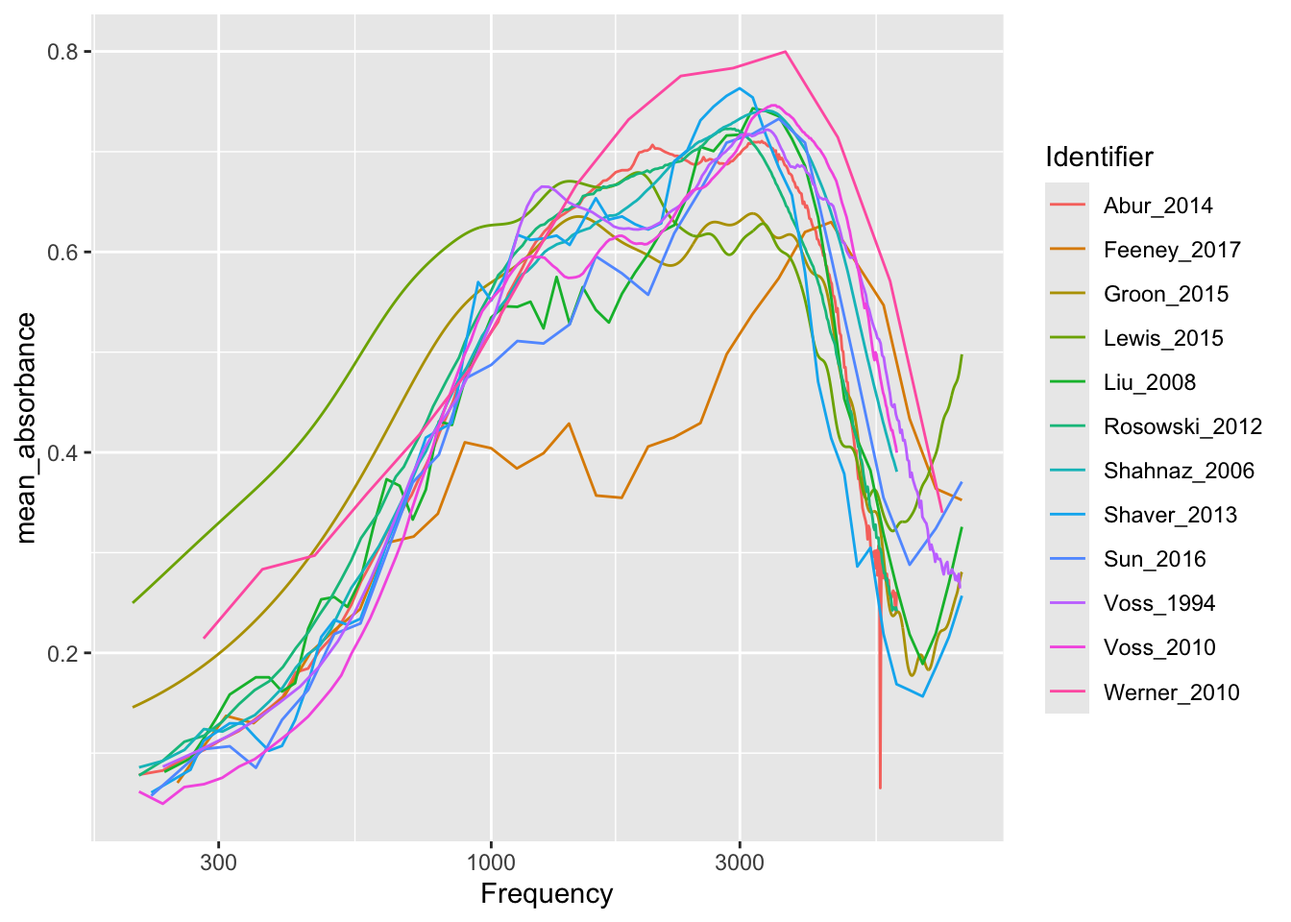
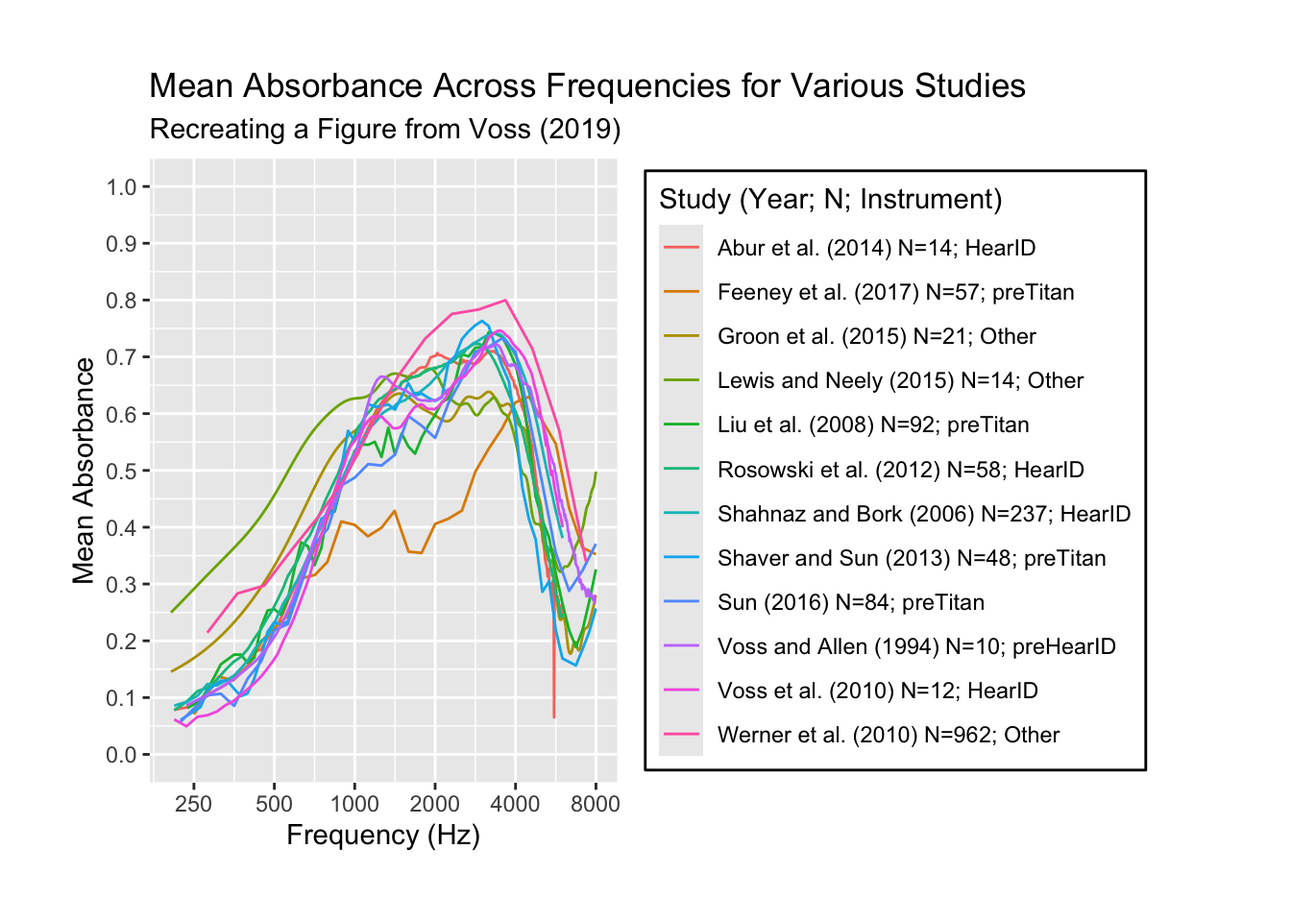
So far done

diff --git a/docs/Project4.html b/docs/Project4.html
@@ -9,7 +9,7 @@
 <meta name="author" content="Taha Disbudak">
 <meta name="dcterms.date" content="2024-11-26">
 
-<title>taha6767.github.io - Project 4</title>
+<title>taha6767.github.io - Recreating an academic graph</title>
 <style>
 code{white-space: pre-wrap;}
 span.smallcaps{font-variant: small-caps;}
@@ -175,20 +175,14 @@ pre > code.sourceCode > span > a:first-child::before { text-decoration: underlin
 <!-- sidebar -->
 <!-- margin-sidebar -->
     <div id="quarto-margin-sidebar" class="sidebar margin-sidebar">
-        <nav id="TOC" role="doc-toc" class="toc-active">
-    <h2 id="toc-title">On this page</h2>
-   
-  <ul>
-  <li><a href="#plan" id="toc-plan" class="nav-link active" data-scroll-target="#plan">Plan</a></li>
-  </ul>
-</nav>
+        
     </div>
 <!-- main -->
 <main class="content" id="quarto-document-content">
 
 <header id="title-block-header" class="quarto-title-block default">
 <div class="quarto-title">
-<h1 class="title">Project 4</h1>
+<h1 class="title">Recreating an academic graph</h1>
 </div>
 
 
@@ -217,61 +211,65 @@ pre > code.sourceCode > span > a:first-child::before { text-decoration: underlin
 </header>
 
 
-<div class="cell">
-<div class="sourceCode cell-code" id="cb1"><pre class="sourceCode r code-with-copy"><code class="sourceCode r"><span id="cb1-1"><a href="#cb1-1" aria-hidden="true" tabindex="-1"></a><span class="fu">library</span>(mdsr)</span>
-<span id="cb1-2"><a href="#cb1-2" aria-hidden="true" tabindex="-1"></a><span class="fu">library</span>(dbplyr)</span>
-<span id="cb1-3"><a href="#cb1-3" aria-hidden="true" tabindex="-1"></a><span class="fu">library</span>(DBI)</span>
-<span id="cb1-4"><a href="#cb1-4" aria-hidden="true" tabindex="-1"></a><span class="fu">library</span>(RMariaDB)</span>
-<span id="cb1-5"><a href="#cb1-5" aria-hidden="true" tabindex="-1"></a><span class="fu">library</span>(tidyverse)</span></code><button title="Copy to Clipboard" class="code-copy-button"><i class="bi"></i></button></pre></div>
-</div>
 <p>Source of Data: Wideband Acoustic Immittance (WAI) Database hosted by Smith College (doi.org/10.35482/egr.001.2022)</p>
-<section id="plan" class="level3">
-<h3 class="anchored" data-anchor-id="plan">Plan</h3>
-<p>In this project, I analyze and visualize data from the WAI Database.</p>
-<ol type="1">
-<li><p>For <strong>Part 1</strong>, I replicate <strong>Figure 1 from Voss (2020)</strong> by querying the database to compute mean absorbance values across frequencies for 12 studies. The data is grouped and processed in SQL, and only visualization is performed in R using <code>ggplot</code>.</p></li>
-<li><p>For <strong>Part 2</strong>, I investigate the absorbance behavior across different <strong>age groups</strong> (Child, Adult) within the Aithal_2019a study. I compute mean absorbance values by frequency and age group using SQL and plot these trends in R.</p></li>
-</ol>
-<p>Recreating figure 1:</p>
+<p>Plan In this project, I analyze and visualize data from the WAI Database to investigate how mean absorbance varies across frequencies for multiple studies and how absorbance differs by age groups within a single study.</p>
+<p>Part 1: I replicate a version of Figure 1 from Voss (2019), which examines mean absorbance data across frequencies from 12 different studies.</p>
+<p>Using SQL, I query the WAI database to compute mean absorbance values by frequency for each study. In R, I visualize these data using ggplot2, with a logarithmic frequency axis and each study plotted as a separate line. Part 2: I focus on the Aithal_2019a study to compare mean absorbance values between children and adults.</p>
+<p>I query the database to compute mean absorbance values by frequency for each age category. I visualize the results to highlight differences in auditory responses between children and adults. References Voss (2019): Voss, S.E. (2019). Resource Review. Ear and Hearing, 40(6), 1481. DOI: 10.1097/AUD.0000000000000790</p>
+<p>Part 1: Recreating a Figure Similar to Voss (2019) Figure 1</p>
 <div class="cell">
-<div class="sourceCode cell-code" id="cb2"><pre class="sourceCode r code-with-copy"><code class="sourceCode r"><span id="cb2-1"><a href="#cb2-1" aria-hidden="true" tabindex="-1"></a>con_wai <span class="ot">&lt;-</span> <span class="fu">dbConnect</span>(</span>
-<span id="cb2-2"><a href="#cb2-2" aria-hidden="true" tabindex="-1"></a>  <span class="fu">MariaDB</span>(), <span class="at">host =</span> <span class="st">"scidb.smith.edu"</span>,</span>
-<span id="cb2-3"><a href="#cb2-3" aria-hidden="true" tabindex="-1"></a>  <span class="at">user =</span> <span class="st">"waiuser"</span>, <span class="at">password =</span> <span class="st">"smith_waiDB"</span>, </span>
-<span id="cb2-4"><a href="#cb2-4" aria-hidden="true" tabindex="-1"></a>  <span class="at">dbname =</span> <span class="st">"wai"</span></span>
-<span id="cb2-5"><a href="#cb2-5" aria-hidden="true" tabindex="-1"></a>)</span>
-<span id="cb2-6"><a href="#cb2-6" aria-hidden="true" tabindex="-1"></a>Measurements <span class="ot">&lt;-</span> <span class="fu">tbl</span>(con_wai, <span class="st">"Measurements"</span>)</span>
-<span id="cb2-7"><a href="#cb2-7" aria-hidden="true" tabindex="-1"></a>PI_Info <span class="ot">&lt;-</span> <span class="fu">tbl</span>(con_wai, <span class="st">"PI_Info"</span>)</span>
-<span id="cb2-8"><a href="#cb2-8" aria-hidden="true" tabindex="-1"></a>Subjects <span class="ot">&lt;-</span> <span class="fu">tbl</span>(con_wai, <span class="st">"Subjects"</span>)</span>
-<span id="cb2-9"><a href="#cb2-9" aria-hidden="true" tabindex="-1"></a></span>
-<span id="cb2-10"><a href="#cb2-10" aria-hidden="true" tabindex="-1"></a><span class="co"># collect(Measurements)</span></span></code><button title="Copy to Clipboard" class="code-copy-button"><i class="bi"></i></button></pre></div>
+<div class="sourceCode cell-code" id="cb1"><pre class="sourceCode r code-with-copy"><code class="sourceCode r"><span id="cb1-1"><a href="#cb1-1" aria-hidden="true" tabindex="-1"></a>con_wai <span class="ot">&lt;-</span> <span class="fu">dbConnect</span>(</span>
+<span id="cb1-2"><a href="#cb1-2" aria-hidden="true" tabindex="-1"></a>  <span class="fu">MariaDB</span>(), <span class="at">host =</span> <span class="st">"scidb.smith.edu"</span>,</span>
+<span id="cb1-3"><a href="#cb1-3" aria-hidden="true" tabindex="-1"></a>  <span class="at">user =</span> <span class="st">"waiuser"</span>, <span class="at">password =</span> <span class="st">"smith_waiDB"</span>, </span>
+<span id="cb1-4"><a href="#cb1-4" aria-hidden="true" tabindex="-1"></a>  <span class="at">dbname =</span> <span class="st">"wai"</span></span>
+<span id="cb1-5"><a href="#cb1-5" aria-hidden="true" tabindex="-1"></a>)</span>
+<span id="cb1-6"><a href="#cb1-6" aria-hidden="true" tabindex="-1"></a>Measurements <span class="ot">&lt;-</span> <span class="fu">tbl</span>(con_wai, <span class="st">"Measurements"</span>)</span>
+<span id="cb1-7"><a href="#cb1-7" aria-hidden="true" tabindex="-1"></a>PI_Info <span class="ot">&lt;-</span> <span class="fu">tbl</span>(con_wai, <span class="st">"PI_Info"</span>)</span>
+<span id="cb1-8"><a href="#cb1-8" aria-hidden="true" tabindex="-1"></a>Subjects <span class="ot">&lt;-</span> <span class="fu">tbl</span>(con_wai, <span class="st">"Subjects"</span>)</span></code><button title="Copy to Clipboard" class="code-copy-button"><i class="bi"></i></button></pre></div>
 </div>
+<p>Connecting to the online database</p>
 <div class="cell" data-output.var="graph">
-<div class="sourceCode cell-code" id="cb3"><pre class="sourceCode sql code-with-copy"><code class="sourceCode sql"><span id="cb3-1"><a href="#cb3-1" aria-hidden="true" tabindex="-1"></a><span class="kw">SELECT</span> </span>
-<span id="cb3-2"><a href="#cb3-2" aria-hidden="true" tabindex="-1"></a>    m.<span class="kw">Identifier</span>, </span>
-<span id="cb3-3"><a href="#cb3-3" aria-hidden="true" tabindex="-1"></a>    m.Frequency, </span>
-<span id="cb3-4"><a href="#cb3-4" aria-hidden="true" tabindex="-1"></a>    <span class="fu">AVG</span>(m.Absorbance) <span class="kw">AS</span> mean_absorbance,</span>
-<span id="cb3-5"><a href="#cb3-5" aria-hidden="true" tabindex="-1"></a>    p.<span class="dt">Year</span>,</span>
-<span id="cb3-6"><a href="#cb3-6" aria-hidden="true" tabindex="-1"></a>    p.AuthorsShortList,</span>
-<span id="cb3-7"><a href="#cb3-7" aria-hidden="true" tabindex="-1"></a>    m.Instrument,</span>
-<span id="cb3-8"><a href="#cb3-8" aria-hidden="true" tabindex="-1"></a>    <span class="fu">CONCAT</span>(p.AuthorsShortList, <span class="st">' ('</span>, p.<span class="dt">Year</span>, <span class="st">') N='</span>, </span>
-<span id="cb3-9"><a href="#cb3-9" aria-hidden="true" tabindex="-1"></a>           <span class="fu">COUNT</span>(<span class="kw">DISTINCT</span> <span class="fu">CONCAT</span>(m.SubjectNumber, m.Ear)), <span class="st">'; '</span>, m.Instrument) <span class="kw">AS</span> legend</span>
-<span id="cb3-10"><a href="#cb3-10" aria-hidden="true" tabindex="-1"></a><span class="kw">FROM</span> Measurements m</span>
-<span id="cb3-11"><a href="#cb3-11" aria-hidden="true" tabindex="-1"></a><span class="kw">INNER</span> <span class="kw">JOIN</span> PI_Info p <span class="kw">ON</span> m.<span class="kw">Identifier</span> <span class="op">=</span> p.<span class="kw">Identifier</span></span>
-<span id="cb3-12"><a href="#cb3-12" aria-hidden="true" tabindex="-1"></a><span class="kw">WHERE</span> m.<span class="kw">Identifier</span> <span class="kw">IN</span> (</span>
-<span id="cb3-13"><a href="#cb3-13" aria-hidden="true" tabindex="-1"></a>    <span class="st">'Abur_2014'</span>, <span class="st">'Feeney_2017'</span>, <span class="st">'Groon_2015'</span>, <span class="st">'Lewis_2015'</span>, <span class="st">'Liu_2008'</span>,</span>
-<span id="cb3-14"><a href="#cb3-14" aria-hidden="true" tabindex="-1"></a>    <span class="st">'Rosowski_2012'</span>, <span class="st">'Shahnaz_2006'</span>, <span class="st">'Shaver_2013'</span>, <span class="st">'Sun_2016'</span>, </span>
-<span id="cb3-15"><a href="#cb3-15" aria-hidden="true" tabindex="-1"></a>    <span class="st">'Voss_1994'</span>, <span class="st">'Voss_2010'</span>, <span class="st">'Werner_2010'</span></span>
-<span id="cb3-16"><a href="#cb3-16" aria-hidden="true" tabindex="-1"></a>) </span>
-<span id="cb3-17"><a href="#cb3-17" aria-hidden="true" tabindex="-1"></a><span class="kw">AND</span> m.Frequency <span class="kw">BETWEEN</span> <span class="dv">200</span> <span class="kw">AND</span> <span class="dv">8000</span></span>
-<span id="cb3-18"><a href="#cb3-18" aria-hidden="true" tabindex="-1"></a><span class="kw">GROUP</span> <span class="kw">BY</span> m.<span class="kw">Identifier</span>, m.Frequency, m.Instrument, p.<span class="dt">Year</span>, p.AuthorsShortList</span></code><button title="Copy to Clipboard" class="code-copy-button"><i class="bi"></i></button></pre></div>
+<div class="sourceCode cell-code" id="cb2"><pre class="sourceCode sql code-with-copy"><code class="sourceCode sql"><span id="cb2-1"><a href="#cb2-1" aria-hidden="true" tabindex="-1"></a><span class="kw">SELECT</span> </span>
+<span id="cb2-2"><a href="#cb2-2" aria-hidden="true" tabindex="-1"></a>    m.<span class="kw">Identifier</span>, </span>
+<span id="cb2-3"><a href="#cb2-3" aria-hidden="true" tabindex="-1"></a>    m.Frequency, </span>
+<span id="cb2-4"><a href="#cb2-4" aria-hidden="true" tabindex="-1"></a>    <span class="fu">AVG</span>(m.Absorbance) <span class="kw">AS</span> mean_absorbance,</span>
+<span id="cb2-5"><a href="#cb2-5" aria-hidden="true" tabindex="-1"></a>    p.<span class="dt">Year</span>,</span>
+<span id="cb2-6"><a href="#cb2-6" aria-hidden="true" tabindex="-1"></a>    p.AuthorsShortList,</span>
+<span id="cb2-7"><a href="#cb2-7" aria-hidden="true" tabindex="-1"></a>    m.Instrument,</span>
+<span id="cb2-8"><a href="#cb2-8" aria-hidden="true" tabindex="-1"></a>    <span class="fu">CONCAT</span>(p.AuthorsShortList, <span class="st">' ('</span>, p.<span class="dt">Year</span>, <span class="st">') N='</span>, </span>
+<span id="cb2-9"><a href="#cb2-9" aria-hidden="true" tabindex="-1"></a>           <span class="fu">COUNT</span>(<span class="kw">DISTINCT</span> <span class="fu">CONCAT</span>(m.SubjectNumber, m.Ear)), <span class="st">'; '</span>, m.Instrument) <span class="kw">AS</span> legend</span>
+<span id="cb2-10"><a href="#cb2-10" aria-hidden="true" tabindex="-1"></a><span class="kw">FROM</span> Measurements m</span>
+<span id="cb2-11"><a href="#cb2-11" aria-hidden="true" tabindex="-1"></a><span class="kw">INNER</span> <span class="kw">JOIN</span> PI_Info p <span class="kw">ON</span> m.<span class="kw">Identifier</span> <span class="op">=</span> p.<span class="kw">Identifier</span></span>
+<span id="cb2-12"><a href="#cb2-12" aria-hidden="true" tabindex="-1"></a><span class="kw">WHERE</span> m.<span class="kw">Identifier</span> <span class="kw">IN</span> (</span>
+<span id="cb2-13"><a href="#cb2-13" aria-hidden="true" tabindex="-1"></a>    <span class="st">'Abur_2014'</span>, <span class="st">'Feeney_2017'</span>, <span class="st">'Groon_2015'</span>, <span class="st">'Lewis_2015'</span>, <span class="st">'Liu_2008'</span>,</span>
+<span id="cb2-14"><a href="#cb2-14" aria-hidden="true" tabindex="-1"></a>    <span class="st">'Rosowski_2012'</span>, <span class="st">'Shahnaz_2006'</span>, <span class="st">'Shaver_2013'</span>, <span class="st">'Sun_2016'</span>, </span>
+<span id="cb2-15"><a href="#cb2-15" aria-hidden="true" tabindex="-1"></a>    <span class="st">'Voss_1994'</span>, <span class="st">'Voss_2010'</span>, <span class="st">'Werner_2010'</span></span>
+<span id="cb2-16"><a href="#cb2-16" aria-hidden="true" tabindex="-1"></a>) </span>
+<span id="cb2-17"><a href="#cb2-17" aria-hidden="true" tabindex="-1"></a><span class="kw">AND</span> m.Frequency <span class="kw">BETWEEN</span> <span class="dv">200</span> <span class="kw">AND</span> <span class="dv">8000</span></span>
+<span id="cb2-18"><a href="#cb2-18" aria-hidden="true" tabindex="-1"></a><span class="kw">GROUP</span> <span class="kw">BY</span> m.<span class="kw">Identifier</span>, m.Frequency, m.Instrument, p.<span class="dt">Year</span>, p.AuthorsShortList</span></code><button title="Copy to Clipboard" class="code-copy-button"><i class="bi"></i></button></pre></div>
 </div>
+<p>This SQL query retrieves averaged absorbance measurements from specific scientific studies, joining measurement data with publication information and grouping the results by study identifier, frequency, and instrument type. The query creates a legend string combining author names, publication year, and sample size (N) for each study while filtering frequencies between 200 and 8000.</p>
 <div class="cell">
-<div class="sourceCode cell-code" id="cb4"><pre class="sourceCode r code-with-copy"><code class="sourceCode r"><span id="cb4-1"><a href="#cb4-1" aria-hidden="true" tabindex="-1"></a>graph <span class="sc">|&gt;</span></span>
-<span id="cb4-2"><a href="#cb4-2" aria-hidden="true" tabindex="-1"></a><span class="fu">ggplot</span>(<span class="fu">aes</span> (<span class="at">x =</span> Frequency, <span class="at">y =</span> mean_absorbance, </span>
-<span id="cb4-3"><a href="#cb4-3" aria-hidden="true" tabindex="-1"></a>  <span class="at">color =</span> Identifier,</span>
-<span id="cb4-4"><a href="#cb4-4" aria-hidden="true" tabindex="-1"></a>  <span class="at">group =</span> Identifier)) <span class="sc">+</span></span>
-<span id="cb4-5"><a href="#cb4-5" aria-hidden="true" tabindex="-1"></a>  <span class="fu">geom_line</span>()<span class="sc">+</span></span>
-<span id="cb4-6"><a href="#cb4-6" aria-hidden="true" tabindex="-1"></a>  <span class="fu">scale_x_log10</span>()</span></code><button title="Copy to Clipboard" class="code-copy-button"><i class="bi"></i></button></pre></div>
+<div class="sourceCode cell-code" id="cb3"><pre class="sourceCode r code-with-copy"><code class="sourceCode r"><span id="cb3-1"><a href="#cb3-1" aria-hidden="true" tabindex="-1"></a>graph <span class="sc">|&gt;</span></span>
+<span id="cb3-2"><a href="#cb3-2" aria-hidden="true" tabindex="-1"></a>  <span class="fu">ggplot</span>(<span class="fu">aes</span>(<span class="at">x =</span> Frequency, <span class="at">y =</span> mean_absorbance,</span>
+<span id="cb3-3"><a href="#cb3-3" aria-hidden="true" tabindex="-1"></a>           <span class="at">color =</span> legend, <span class="at">group =</span> legend)) <span class="sc">+</span></span>
+<span id="cb3-4"><a href="#cb3-4" aria-hidden="true" tabindex="-1"></a><span class="fu">geom_line</span>() <span class="sc">+</span></span>
+<span id="cb3-5"><a href="#cb3-5" aria-hidden="true" tabindex="-1"></a><span class="fu">scale_x_log10</span>(<span class="at">breaks =</span> <span class="fu">c</span>(<span class="dv">250</span>, <span class="dv">500</span>, <span class="dv">1000</span>, <span class="dv">2000</span>, <span class="dv">4000</span>, <span class="dv">8000</span>),</span>
+<span id="cb3-6"><a href="#cb3-6" aria-hidden="true" tabindex="-1"></a>              <span class="at">labels =</span> <span class="fu">c</span>(<span class="st">"250"</span>,<span class="st">"500"</span>,<span class="st">"1000"</span>,<span class="st">"2000"</span>,<span class="st">"4000"</span>,<span class="st">"8000"</span>)) <span class="sc">+</span></span>
+<span id="cb3-7"><a href="#cb3-7" aria-hidden="true" tabindex="-1"></a><span class="fu">scale_y_continuous</span>(<span class="at">limits =</span> <span class="fu">c</span>(<span class="dv">0</span>, <span class="dv">1</span>),</span>
+<span id="cb3-8"><a href="#cb3-8" aria-hidden="true" tabindex="-1"></a>                  <span class="at">breaks =</span> <span class="fu">seq</span>(<span class="dv">0</span>, <span class="dv">1</span>, <span class="at">by =</span> <span class="fl">0.1</span>)) <span class="sc">+</span></span>
+<span id="cb3-9"><a href="#cb3-9" aria-hidden="true" tabindex="-1"></a><span class="fu">labs</span>(</span>
+<span id="cb3-10"><a href="#cb3-10" aria-hidden="true" tabindex="-1"></a>    <span class="at">title =</span> <span class="st">"Mean Absorbance Across Frequencies for Various Studies"</span>,</span>
+<span id="cb3-11"><a href="#cb3-11" aria-hidden="true" tabindex="-1"></a>    <span class="at">subtitle =</span> <span class="st">"Recreating a Figure from Voss (2019)"</span>,</span>
+<span id="cb3-12"><a href="#cb3-12" aria-hidden="true" tabindex="-1"></a>    <span class="at">x =</span> <span class="st">"Frequency (Hz)"</span>,</span>
+<span id="cb3-13"><a href="#cb3-13" aria-hidden="true" tabindex="-1"></a>    <span class="at">y =</span> <span class="st">"Mean Absorbance"</span>,</span>
+<span id="cb3-14"><a href="#cb3-14" aria-hidden="true" tabindex="-1"></a>    <span class="at">color =</span> <span class="st">"Study (Year; N; Instrument)"</span></span>
+<span id="cb3-15"><a href="#cb3-15" aria-hidden="true" tabindex="-1"></a>) <span class="sc">+</span></span>
+<span id="cb3-16"><a href="#cb3-16" aria-hidden="true" tabindex="-1"></a><span class="fu">theme</span>(</span>
+<span id="cb3-17"><a href="#cb3-17" aria-hidden="true" tabindex="-1"></a>    <span class="at">legend.position =</span> <span class="st">"right"</span>,</span>
+<span id="cb3-18"><a href="#cb3-18" aria-hidden="true" tabindex="-1"></a>    <span class="at">legend.background =</span> <span class="fu">element_rect</span>(<span class="at">fill =</span> <span class="st">"white"</span>, <span class="at">color =</span> <span class="st">"black"</span>),</span>
+<span id="cb3-19"><a href="#cb3-19" aria-hidden="true" tabindex="-1"></a>    <span class="at">plot.margin =</span> <span class="fu">unit</span>(<span class="fu">c</span>(<span class="dv">1</span>, <span class="dv">2</span>, <span class="dv">1</span>, <span class="dv">1</span>), <span class="st">"cm"</span>)</span>
+<span id="cb3-20"><a href="#cb3-20" aria-hidden="true" tabindex="-1"></a>)</span></code><button title="Copy to Clipboard" class="code-copy-button"><i class="bi"></i></button></pre></div>
 <div class="cell-output-display">
 <div>
 <figure class="figure">
@@ -279,57 +277,39 @@ pre > code.sourceCode > span > a:first-child::before { text-decoration: underlin
 </figure>
 </div>
 </div>
-<div class="sourceCode cell-code" id="cb5"><pre class="sourceCode r code-with-copy"><code class="sourceCode r"><span id="cb5-1"><a href="#cb5-1" aria-hidden="true" tabindex="-1"></a>  <span class="fu">labs</span>(</span>
-<span id="cb5-2"><a href="#cb5-2" aria-hidden="true" tabindex="-1"></a>    <span class="at">title =</span> <span class="st">"Mean Absorbance Across Frequencies for Various Studies"</span>,</span>
-<span id="cb5-3"><a href="#cb5-3" aria-hidden="true" tabindex="-1"></a>    <span class="at">x =</span> <span class="st">"Frequency (Log Scale)"</span>,</span>
-<span id="cb5-4"><a href="#cb5-4" aria-hidden="true" tabindex="-1"></a>    <span class="at">y =</span> <span class="st">"Mean Absorbance"</span></span>
-<span id="cb5-5"><a href="#cb5-5" aria-hidden="true" tabindex="-1"></a>  )</span></code><button title="Copy to Clipboard" class="code-copy-button"><i class="bi"></i></button></pre></div>
-<div class="cell-output cell-output-stdout">
-<pre><code>$x
-[1] "Frequency (Log Scale)"
-
-$y
-[1] "Mean Absorbance"
-
-$title
-[1] "Mean Absorbance Across Frequencies for Various Studies"
-
-attr(,"class")
-[1] "labels"</code></pre>
-</div>
 </div>
 <p>This visualization shows data from 12 different studies examining mean absorbance patterns across sound frequencies. Each study is represented by a uniquely colored line, with frequencies shown on a logarithmic scale from about 300 to 8000 Hz. Most studies follow a similar pattern: starting with low absorbance values (around 0.1-0.2) at lower frequencies, gradually increasing to reach maximum absorbance (between 0.6-0.8) in the mid-frequency range of 1000-3000 Hz, and then declining at higher frequencies. Notable variations exist between studies, particularly in the Feeney_2017 data which shows a distinctly different pattern with lower absorbance values and a delayed peak compared to other studies. The Lewis_2015 study shows the earliest rise in absorbance at low frequencies, while Werner_2010 achieves the highest peak absorbance values around 0.8.</p>
 <p>Part 2:</p>
 <div class="cell" data-output.var="graphforQ2_comparison">
-<div class="sourceCode cell-code" id="cb7"><pre class="sourceCode sql code-with-copy"><code class="sourceCode sql"><span id="cb7-1"><a href="#cb7-1" aria-hidden="true" tabindex="-1"></a><span class="kw">SELECT</span> </span>
-<span id="cb7-2"><a href="#cb7-2" aria-hidden="true" tabindex="-1"></a>    m.AgeCategory,</span>
-<span id="cb7-3"><a href="#cb7-3" aria-hidden="true" tabindex="-1"></a>    m.Frequency, </span>
-<span id="cb7-4"><a href="#cb7-4" aria-hidden="true" tabindex="-1"></a>    <span class="fu">AVG</span>(m.Absorbance) <span class="kw">AS</span> mean_absorbance,</span>
-<span id="cb7-5"><a href="#cb7-5" aria-hidden="true" tabindex="-1"></a>    m.<span class="kw">Identifier</span></span>
-<span id="cb7-6"><a href="#cb7-6" aria-hidden="true" tabindex="-1"></a><span class="kw">FROM</span> Measurements m</span>
-<span id="cb7-7"><a href="#cb7-7" aria-hidden="true" tabindex="-1"></a><span class="kw">INNER</span> <span class="kw">JOIN</span> Subjects s <span class="kw">ON</span> m.<span class="kw">Identifier</span> <span class="op">=</span> s.<span class="kw">Identifier</span> </span>
-<span id="cb7-8"><a href="#cb7-8" aria-hidden="true" tabindex="-1"></a>    <span class="kw">AND</span> m.SubjectNumber <span class="op">=</span> s.SubjectNumber</span>
-<span id="cb7-9"><a href="#cb7-9" aria-hidden="true" tabindex="-1"></a><span class="kw">INNER</span> <span class="kw">JOIN</span> PI_Info p <span class="kw">ON</span> m.<span class="kw">Identifier</span> <span class="op">=</span> p.<span class="kw">Identifier</span></span>
-<span id="cb7-10"><a href="#cb7-10" aria-hidden="true" tabindex="-1"></a><span class="kw">WHERE</span> m.<span class="kw">Identifier</span> <span class="op">=</span> <span class="st">'Aithal_2019a'</span> </span>
-<span id="cb7-11"><a href="#cb7-11" aria-hidden="true" tabindex="-1"></a>    <span class="kw">AND</span> m.Frequency <span class="kw">BETWEEN</span> <span class="dv">200</span> <span class="kw">AND</span> <span class="dv">8000</span></span>
-<span id="cb7-12"><a href="#cb7-12" aria-hidden="true" tabindex="-1"></a>    <span class="kw">AND</span> m.AgeCategory <span class="kw">IS</span> <span class="kw">NOT</span> <span class="kw">NULL</span></span>
-<span id="cb7-13"><a href="#cb7-13" aria-hidden="true" tabindex="-1"></a><span class="kw">GROUP</span> <span class="kw">BY</span> m.<span class="kw">Identifier</span>, m.Frequency, m.AgeCategory;</span></code><button title="Copy to Clipboard" class="code-copy-button"><i class="bi"></i></button></pre></div>
+<div class="sourceCode cell-code" id="cb4"><pre class="sourceCode sql code-with-copy"><code class="sourceCode sql"><span id="cb4-1"><a href="#cb4-1" aria-hidden="true" tabindex="-1"></a><span class="kw">SELECT</span> </span>
+<span id="cb4-2"><a href="#cb4-2" aria-hidden="true" tabindex="-1"></a>    m.AgeCategory,</span>
+<span id="cb4-3"><a href="#cb4-3" aria-hidden="true" tabindex="-1"></a>    m.Frequency, </span>
+<span id="cb4-4"><a href="#cb4-4" aria-hidden="true" tabindex="-1"></a>    <span class="fu">AVG</span>(m.Absorbance) <span class="kw">AS</span> mean_absorbance,</span>
+<span id="cb4-5"><a href="#cb4-5" aria-hidden="true" tabindex="-1"></a>    m.<span class="kw">Identifier</span></span>
+<span id="cb4-6"><a href="#cb4-6" aria-hidden="true" tabindex="-1"></a><span class="kw">FROM</span> Measurements m</span>
+<span id="cb4-7"><a href="#cb4-7" aria-hidden="true" tabindex="-1"></a><span class="kw">INNER</span> <span class="kw">JOIN</span> Subjects s <span class="kw">ON</span> m.<span class="kw">Identifier</span> <span class="op">=</span> s.<span class="kw">Identifier</span> </span>
+<span id="cb4-8"><a href="#cb4-8" aria-hidden="true" tabindex="-1"></a>    <span class="kw">AND</span> m.SubjectNumber <span class="op">=</span> s.SubjectNumber</span>
+<span id="cb4-9"><a href="#cb4-9" aria-hidden="true" tabindex="-1"></a><span class="kw">INNER</span> <span class="kw">JOIN</span> PI_Info p <span class="kw">ON</span> m.<span class="kw">Identifier</span> <span class="op">=</span> p.<span class="kw">Identifier</span></span>
+<span id="cb4-10"><a href="#cb4-10" aria-hidden="true" tabindex="-1"></a><span class="kw">WHERE</span> m.<span class="kw">Identifier</span> <span class="op">=</span> <span class="st">'Aithal_2019a'</span> </span>
+<span id="cb4-11"><a href="#cb4-11" aria-hidden="true" tabindex="-1"></a>    <span class="kw">AND</span> m.Frequency <span class="kw">BETWEEN</span> <span class="dv">200</span> <span class="kw">AND</span> <span class="dv">8000</span></span>
+<span id="cb4-12"><a href="#cb4-12" aria-hidden="true" tabindex="-1"></a>    <span class="kw">AND</span> m.AgeCategory <span class="kw">IS</span> <span class="kw">NOT</span> <span class="kw">NULL</span></span>
+<span id="cb4-13"><a href="#cb4-13" aria-hidden="true" tabindex="-1"></a><span class="kw">GROUP</span> <span class="kw">BY</span> m.<span class="kw">Identifier</span>, m.Frequency, m.AgeCategory;</span></code><button title="Copy to Clipboard" class="code-copy-button"><i class="bi"></i></button></pre></div>
 </div>
 <div class="cell">
-<div class="sourceCode cell-code" id="cb8"><pre class="sourceCode r code-with-copy"><code class="sourceCode r"><span id="cb8-1"><a href="#cb8-1" aria-hidden="true" tabindex="-1"></a>graphforQ2_comparison <span class="sc">|&gt;</span></span>
-<span id="cb8-2"><a href="#cb8-2" aria-hidden="true" tabindex="-1"></a><span class="fu">ggplot</span>(<span class="fu">aes</span>(<span class="at">x =</span> Frequency, <span class="at">y =</span> mean_absorbance, </span>
-<span id="cb8-3"><a href="#cb8-3" aria-hidden="true" tabindex="-1"></a>   <span class="at">color =</span> AgeCategory,</span>
-<span id="cb8-4"><a href="#cb8-4" aria-hidden="true" tabindex="-1"></a>   <span class="at">group =</span> AgeCategory)) <span class="sc">+</span></span>
-<span id="cb8-5"><a href="#cb8-5" aria-hidden="true" tabindex="-1"></a>  <span class="fu">geom_line</span>() <span class="sc">+</span></span>
-<span id="cb8-6"><a href="#cb8-6" aria-hidden="true" tabindex="-1"></a>  <span class="fu">scale_x_log10</span>() <span class="sc">+</span></span>
-<span id="cb8-7"><a href="#cb8-7" aria-hidden="true" tabindex="-1"></a>  <span class="fu">labs</span>(</span>
-<span id="cb8-8"><a href="#cb8-8" aria-hidden="true" tabindex="-1"></a>    <span class="at">title =</span> <span class="st">"Mean Absorbance Across Frequencies by Age Category"</span>,</span>
-<span id="cb8-9"><a href="#cb8-9" aria-hidden="true" tabindex="-1"></a>    <span class="at">subtitle =</span> <span class="st">"Comparison between Children and Adults in Aithal 2019 Study"</span>,</span>
-<span id="cb8-10"><a href="#cb8-10" aria-hidden="true" tabindex="-1"></a>    <span class="at">x =</span> <span class="st">"Frequency (Log Scale)"</span>,</span>
-<span id="cb8-11"><a href="#cb8-11" aria-hidden="true" tabindex="-1"></a>    <span class="at">y =</span> <span class="st">"Mean Absorbance"</span>,</span>
-<span id="cb8-12"><a href="#cb8-12" aria-hidden="true" tabindex="-1"></a>    <span class="at">color =</span> <span class="st">"Age Category"</span></span>
-<span id="cb8-13"><a href="#cb8-13" aria-hidden="true" tabindex="-1"></a>  ) <span class="sc">+</span></span>
-<span id="cb8-14"><a href="#cb8-14" aria-hidden="true" tabindex="-1"></a>  <span class="fu">theme_minimal</span>()</span></code><button title="Copy to Clipboard" class="code-copy-button"><i class="bi"></i></button></pre></div>
+<div class="sourceCode cell-code" id="cb5"><pre class="sourceCode r code-with-copy"><code class="sourceCode r"><span id="cb5-1"><a href="#cb5-1" aria-hidden="true" tabindex="-1"></a>graphforQ2_comparison <span class="sc">|&gt;</span></span>
+<span id="cb5-2"><a href="#cb5-2" aria-hidden="true" tabindex="-1"></a><span class="fu">ggplot</span>(<span class="fu">aes</span>(<span class="at">x =</span> Frequency, <span class="at">y =</span> mean_absorbance, </span>
+<span id="cb5-3"><a href="#cb5-3" aria-hidden="true" tabindex="-1"></a>   <span class="at">color =</span> AgeCategory,</span>
+<span id="cb5-4"><a href="#cb5-4" aria-hidden="true" tabindex="-1"></a>   <span class="at">group =</span> AgeCategory)) <span class="sc">+</span></span>
+<span id="cb5-5"><a href="#cb5-5" aria-hidden="true" tabindex="-1"></a>  <span class="fu">geom_line</span>() <span class="sc">+</span></span>
+<span id="cb5-6"><a href="#cb5-6" aria-hidden="true" tabindex="-1"></a>  <span class="fu">scale_x_log10</span>() <span class="sc">+</span></span>
+<span id="cb5-7"><a href="#cb5-7" aria-hidden="true" tabindex="-1"></a>  <span class="fu">labs</span>(</span>
+<span id="cb5-8"><a href="#cb5-8" aria-hidden="true" tabindex="-1"></a>    <span class="at">title =</span> <span class="st">"Mean Absorbance Across Frequencies by Age Category"</span>,</span>
+<span id="cb5-9"><a href="#cb5-9" aria-hidden="true" tabindex="-1"></a>    <span class="at">subtitle =</span> <span class="st">"Comparison between Children and Adults in Aithal 2019 Study"</span>,</span>
+<span id="cb5-10"><a href="#cb5-10" aria-hidden="true" tabindex="-1"></a>    <span class="at">x =</span> <span class="st">"Frequency (Log Scale)"</span>,</span>
+<span id="cb5-11"><a href="#cb5-11" aria-hidden="true" tabindex="-1"></a>    <span class="at">y =</span> <span class="st">"Mean Absorbance"</span>,</span>
+<span id="cb5-12"><a href="#cb5-12" aria-hidden="true" tabindex="-1"></a>    <span class="at">color =</span> <span class="st">"Age Category"</span></span>
+<span id="cb5-13"><a href="#cb5-13" aria-hidden="true" tabindex="-1"></a>  ) <span class="sc">+</span></span>
+<span id="cb5-14"><a href="#cb5-14" aria-hidden="true" tabindex="-1"></a>  <span class="fu">theme_minimal</span>()</span></code><button title="Copy to Clipboard" class="code-copy-button"><i class="bi"></i></button></pre></div>
 <div class="cell-output-display">
 <div>
 <figure class="figure">
@@ -341,7 +321,6 @@ attr(,"class")
 <p>This comparison of absorbance patterns between children and adults in the Aithal 2019 study reveals distinct age-related differences in auditory response. While adults show higher initial absorbance at lower frequencies (around 300 Hz), children demonstrate notably higher peak absorbance (reaching 0.7 compared to adults’ 0.55) in the mid-frequency range of 1000-3000 Hz. This pattern reverses at higher frequencies above 3500 Hz, where adults maintain slightly higher absorbance levels. These variations in absorbance patterns likely reflect the anatomical and developmental differences between children’s and adults’ auditory systems.</p>
 
 
-</section>
 
 </main> <!-- /main -->
 <script id="quarto-html-after-body" type="application/javascript">

diff --git a/docs/index.html b/docs/index.html
@@ -96,29 +96,33 @@ ul.task-list li input[type="checkbox"] {
 <span class="menu-text">About</span></a>
   </li>  
   <li class="nav-item dropdown ">
-    <a class="nav-link dropdown-toggle" href="#" id="nav-menu-data-viz" role="button" data-bs-toggle="dropdown" aria-expanded="false">
- <span class="menu-text">Data Viz</span>
+    <a class="nav-link dropdown-toggle" href="#" id="nav-menu-my-projects" role="button" data-bs-toggle="dropdown" aria-expanded="false">
+ <span class="menu-text">My Projects</span>
     </a>
-    <ul class="dropdown-menu" aria-labelledby="nav-menu-data-viz">    
+    <ul class="dropdown-menu" aria-labelledby="nav-menu-my-projects">    
         <li>
     <a class="dropdown-item" href="./tidytuesday1.html">
- <span class="dropdown-text">TidyTuesday Analysis 1</span></a>
+ <span class="dropdown-text">Analyzing Ceo Departures Using R</span></a>
   </li>  
         <li>
     <a class="dropdown-item" href="./tidytuesday2.html">
- <span class="dropdown-text">TidyTuesday Analysis 2</span></a>
+ <span class="dropdown-text">Draugh Analysis of California Using R</span></a>
   </li>  
         <li>
     <a class="dropdown-item" href="./Project2Taha copy.html">
- <span class="dropdown-text">Project 2</span></a>
+ <span class="dropdown-text">Analyzing Netflix Data Using R</span></a>
   </li>  
         <li>
     <a class="dropdown-item" href="./TahaProject3Final.html">
- <span class="dropdown-text">Project 3</span></a>
+ <span class="dropdown-text">Simulation of an Hypothetical Situation in R</span></a>
   </li>  
         <li>
     <a class="dropdown-item" href="./Project4.html">
- <span class="dropdown-text">Project 4</span></a>
+ <span class="dropdown-text">Replicating a Graph in R</span></a>
+  </li>  
+        <li>
+    <a class="dropdown-item" href="./barebones.html">
+ <span class="dropdown-text">Presentation on My Projects So Far</span></a>
   </li>  
     </ul>
   </li>
